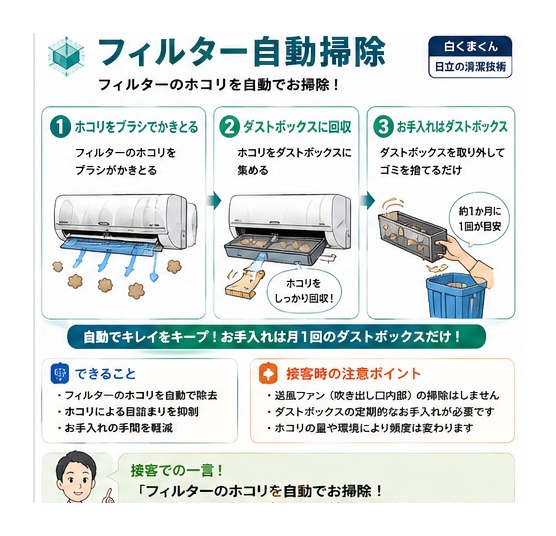
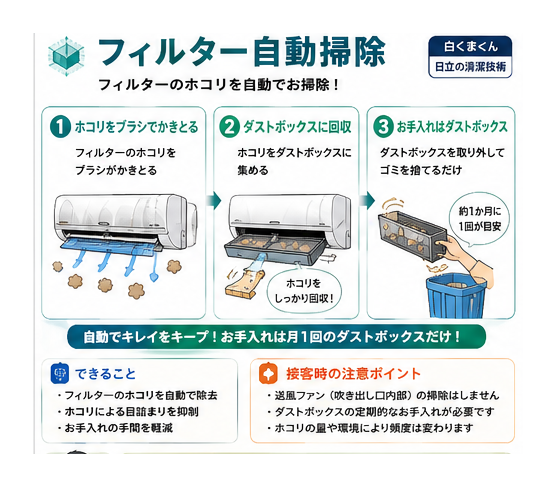
Add files via upload

diff --git a/index.html b/index.html
@@ -4,7 +4,7 @@
 <meta charset="utf-8">
 <meta name="viewport" content="width=device-width,initial-scale=1,viewport-fit=cover">
 <meta name="theme-color" content="#ffffff">
-<title>エアコン販買マスター Pro Ver.4.3.1 見切れ修正・ダイキン初期設定追加版</title>
+<title>エアコン販買マスター Pro Ver.4.3.2 日立図解見切れ完全修正版</title>
 <link rel="apple-touch-icon" sizes="180x180" href="apple-touch-icon.png?v=3890">
 <link rel="icon" type="image/png" sizes="32x32" href="favicon-32.png?v=3890">
 <style>
@@ -572,6 +572,18 @@ html,body{max-width:100%;overflow-x:hidden}
  .responsive-table-wrap .compare-table th,.responsive-table-wrap .compare-table td{padding:8px;line-height:1.45}
 }
 
+
+/* Ver.4.3.2: 元画像内の途中切れ対策 */
+.image-modal img,
+.visual-card img{
+  object-fit:contain!important;
+  object-position:center center!important;
+  background:#fff!important;
+}
+.image-modal-inner{
+  overflow-x:hidden!important;
+}
+
 </style>
 <link rel="manifest" href="manifest.webmanifest?v=3890">
 <meta name="apple-mobile-web-app-capable" content="yes">
@@ -587,7 +599,7 @@ html,body{max-width:100%;overflow-x:hidden}
     <div class="brand">
       <span class="brand-snow">❄</span>
       <span>エアコン販買マスター</span>
-      <small>Ver.4.3.1 見切れ修正・ダイキン初期設定追加版</small>
+      <small>Ver.4.3.2 日立図解見切れ完全修正版</small>
     </div>
     <button class="icon-button status-button" onclick="openMission()" aria-label="今日の目標">◎</button>
   </header>
